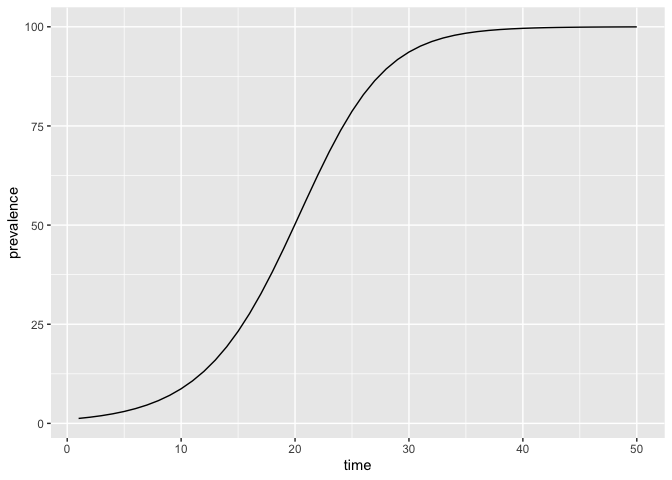
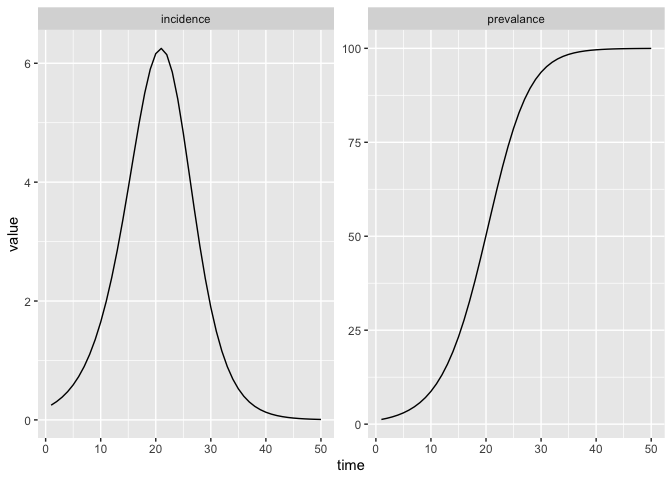
update readme

diff --git a/README.md b/README.md
@@ -154,9 +154,15 @@ Simulating from this model can be done like so.
 
 ``` r
 (si
- |> mp_trajectory(time_steps = 50, quantities = "I")
- |> rename(prevalence = value)
- |> ggplot() + geom_line(aes(time, prevalence))
+ |> mp_simulator(time_steps = 50, quantities = c("I", "infection"))
+ |> mp_trajectory()
+ |> mutate(quantity = case_match(matrix
+    , "I" ~ "prevalance"
+    , "infection" ~ "incidence"
+  ))
+ |> ggplot() 
+ + geom_line(aes(time, value)) 
+ + facet_wrap(~quantity, scales = "free")
 )
 ```
 
@@ -300,22 +306,23 @@ which is what the [model library](#model-library) is for.
 
 ``` r
 ("starter_models"
- |> mp_tmb_library("sir")
- |> mp_trajectory(time_steps = 10, quantities = "I")
+ |> mp_tmb_library("sir", package = "macpan2")
+ |> mp_simulator(time_steps = 10, quantities = "I")
+ |> mp_trajectory()
 )
 ```
 
     ##    matrix time row col    value
-    ## 1       I    1   0   0 1.098000
-    ## 2       I    2   0   0 1.205169
-    ## 3       I    3   0   0 1.322276
-    ## 4       I    4   0   0 1.450133
-    ## 5       I    5   0   0 1.589599
-    ## 6       I    6   0   0 1.741573
-    ## 7       I    7   0   0 1.906995
-    ## 8       I    8   0   0 2.086833
-    ## 9       I    9   0   0 2.282085
-    ## 10      I   10   0   0 2.493761
+    ## 2       I    1   0   0 1.098000
+    ## 3       I    2   0   0 1.205169
+    ## 4       I    3   0   0 1.322276
+    ## 5       I    4   0   0 1.450133
+    ## 6       I    5   0   0 1.589599
+    ## 7       I    6   0   0 1.741573
+    ## 8       I    7   0   0 1.906995
+    ## 9       I    8   0   0 2.086833
+    ## 10      I    9   0   0 2.282085
+    ## 11      I   10   0   0 2.493761
 
 TODO:
 
@@ -428,20 +435,23 @@ sir = mp_tmb_model_spec(
      , to   = mp_indices(flow$to  , state_labels)
   )
 )
-mp_trajectory(sir, time_steps = 10, quantities = c("I"))
+(sir
+  |> mp_simulator(time_steps = 10, quantities = "I")
+  |> mp_trajectory()
+)
 ```
 
     ##    matrix time row col    value
-    ## 1   state    1   I     1.147500
-    ## 2   state    2   I     1.316046
-    ## 3   state    3   I     1.508417
-    ## 4   state    4   I     1.727685
-    ## 5   state    5   I     1.977228
-    ## 6   state    6   I     2.260727
-    ## 7   state    7   I     2.582154
-    ## 8   state    8   I     2.945748
-    ## 9   state    9   I     3.355960
-    ## 10  state   10   I     3.817384
+    ## 5   state    1   I     1.147500
+    ## 8   state    2   I     1.316046
+    ## 11  state    3   I     1.508417
+    ## 14  state    4   I     1.727685
+    ## 17  state    5   I     1.977228
+    ## 20  state    6   I     2.260727
+    ## 23  state    7   I     2.582154
+    ## 26  state    8   I     2.945748
+    ## 29  state    9   I     3.355960
+    ## 32  state   10   I     3.817384
 
 ### Model Structure and Bookkeeping
 
